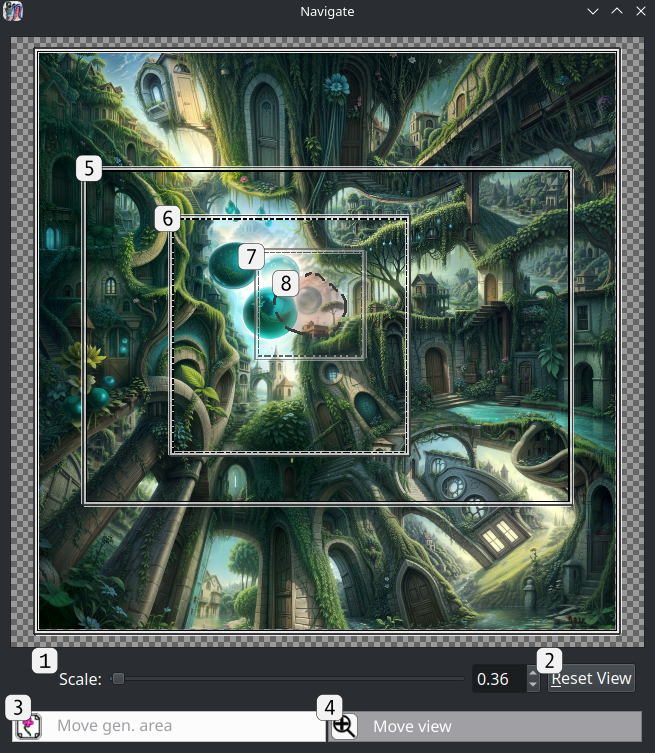
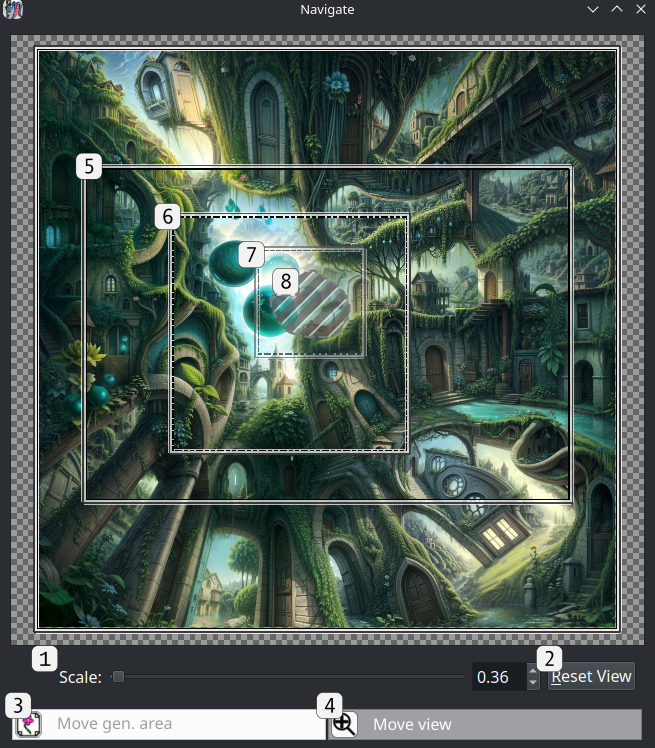
More doc image updates, transform outline bugfix
- Fix a typing bug in TransformOutline
- Update doc. screenshots with changes to selections and filter.

diff --git a/src/ui/graphics_items/transform_outline.py b/src/ui/graphics_items/transform_outline.py
@@ -379,11 +379,11 @@ class TransformOutline(QGraphicsObject):
         """Perform required changes whenever one of the handles moves."""
         assert handle_id in self._handles, str(self._handles)
         pos = self.mapFromScene(pos)
-        assert isinstance(pos, QPoint)
+        assert isinstance(pos, QPointF)
         if handle_id == ORIGIN_HANDLE_ID:
-            self.transformation_origin = pos.toPointF()
+            self.transformation_origin = pos
         elif handle_id in (TL_HANDLE_ID, TR_HANDLE_ID, BL_HANDLE_ID, BR_HANDLE_ID):
-            self.move_corner(handle_id, pos.toPointF())
+            self.move_corner(handle_id, pos)
         else:
             raise RuntimeError(f'Invalid handle id {handle_id}')
 
